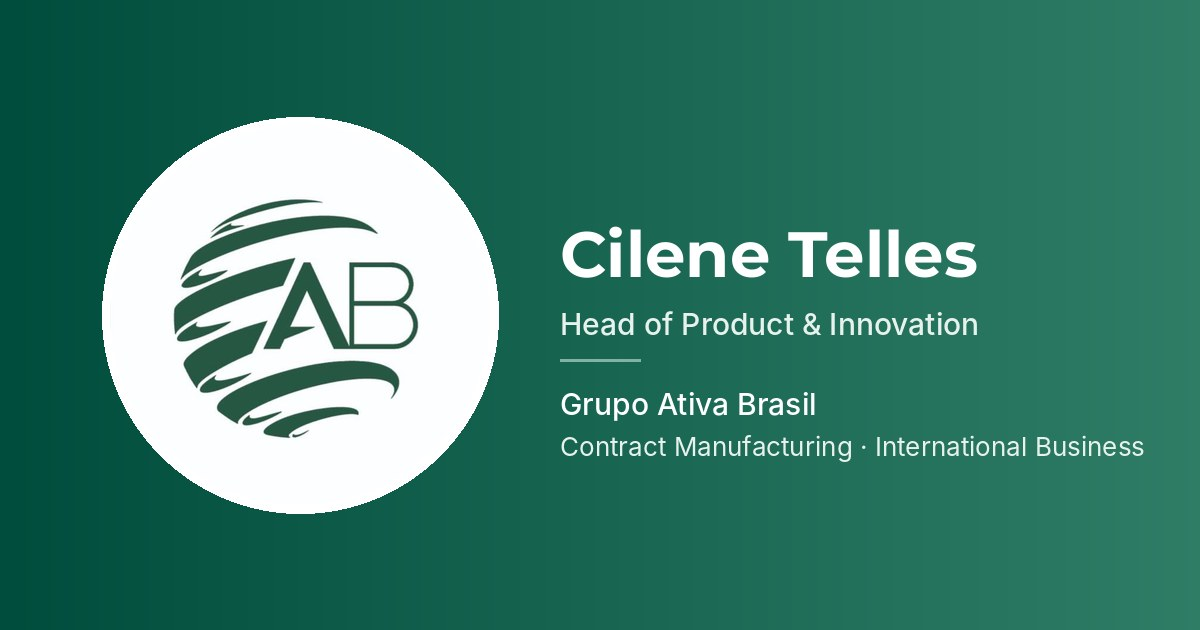
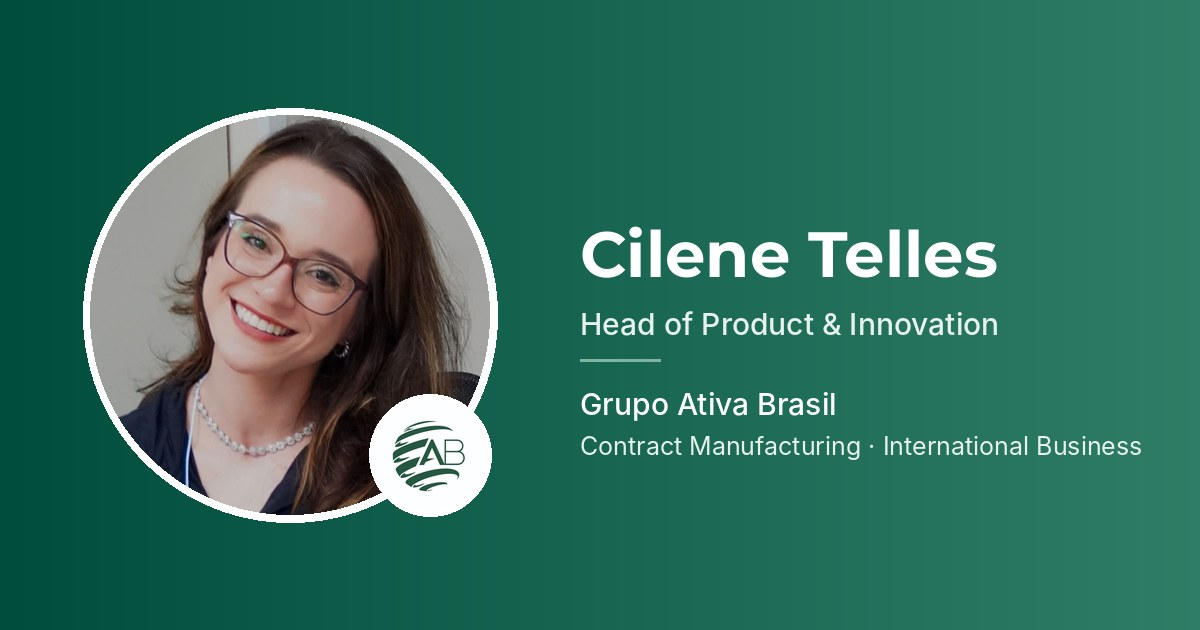
Add professional photo and share image with photo
Claude-Session: https://claude.ai/code/session_01E5NvRgb1dqcWpt4rRybANw

diff --git a/README.md b/README.md
@@ -14,7 +14,7 @@ Feito com React, TypeScript, Tailwind CSS e Vite. Sem banco de dados, login ou b
 - SEO, Open Graph (`public/og-image.jpg`) e favicon com o logotipo
 
 ## Como trocar a foto
-Envie a foto profissional quadrada (~600×600) como `public/cilene.jpg`. Enquanto ela não existir, aparece o monograma "CT".
+A foto fica em `public/cilene.jpg` (quadrada, 640×640). Para trocar, substitua esse arquivo.
 
 ## Publicação
 Cada push na branch `main` gera o site e publica no GitHub Pages (`.github/workflows/deploy.yml`).
